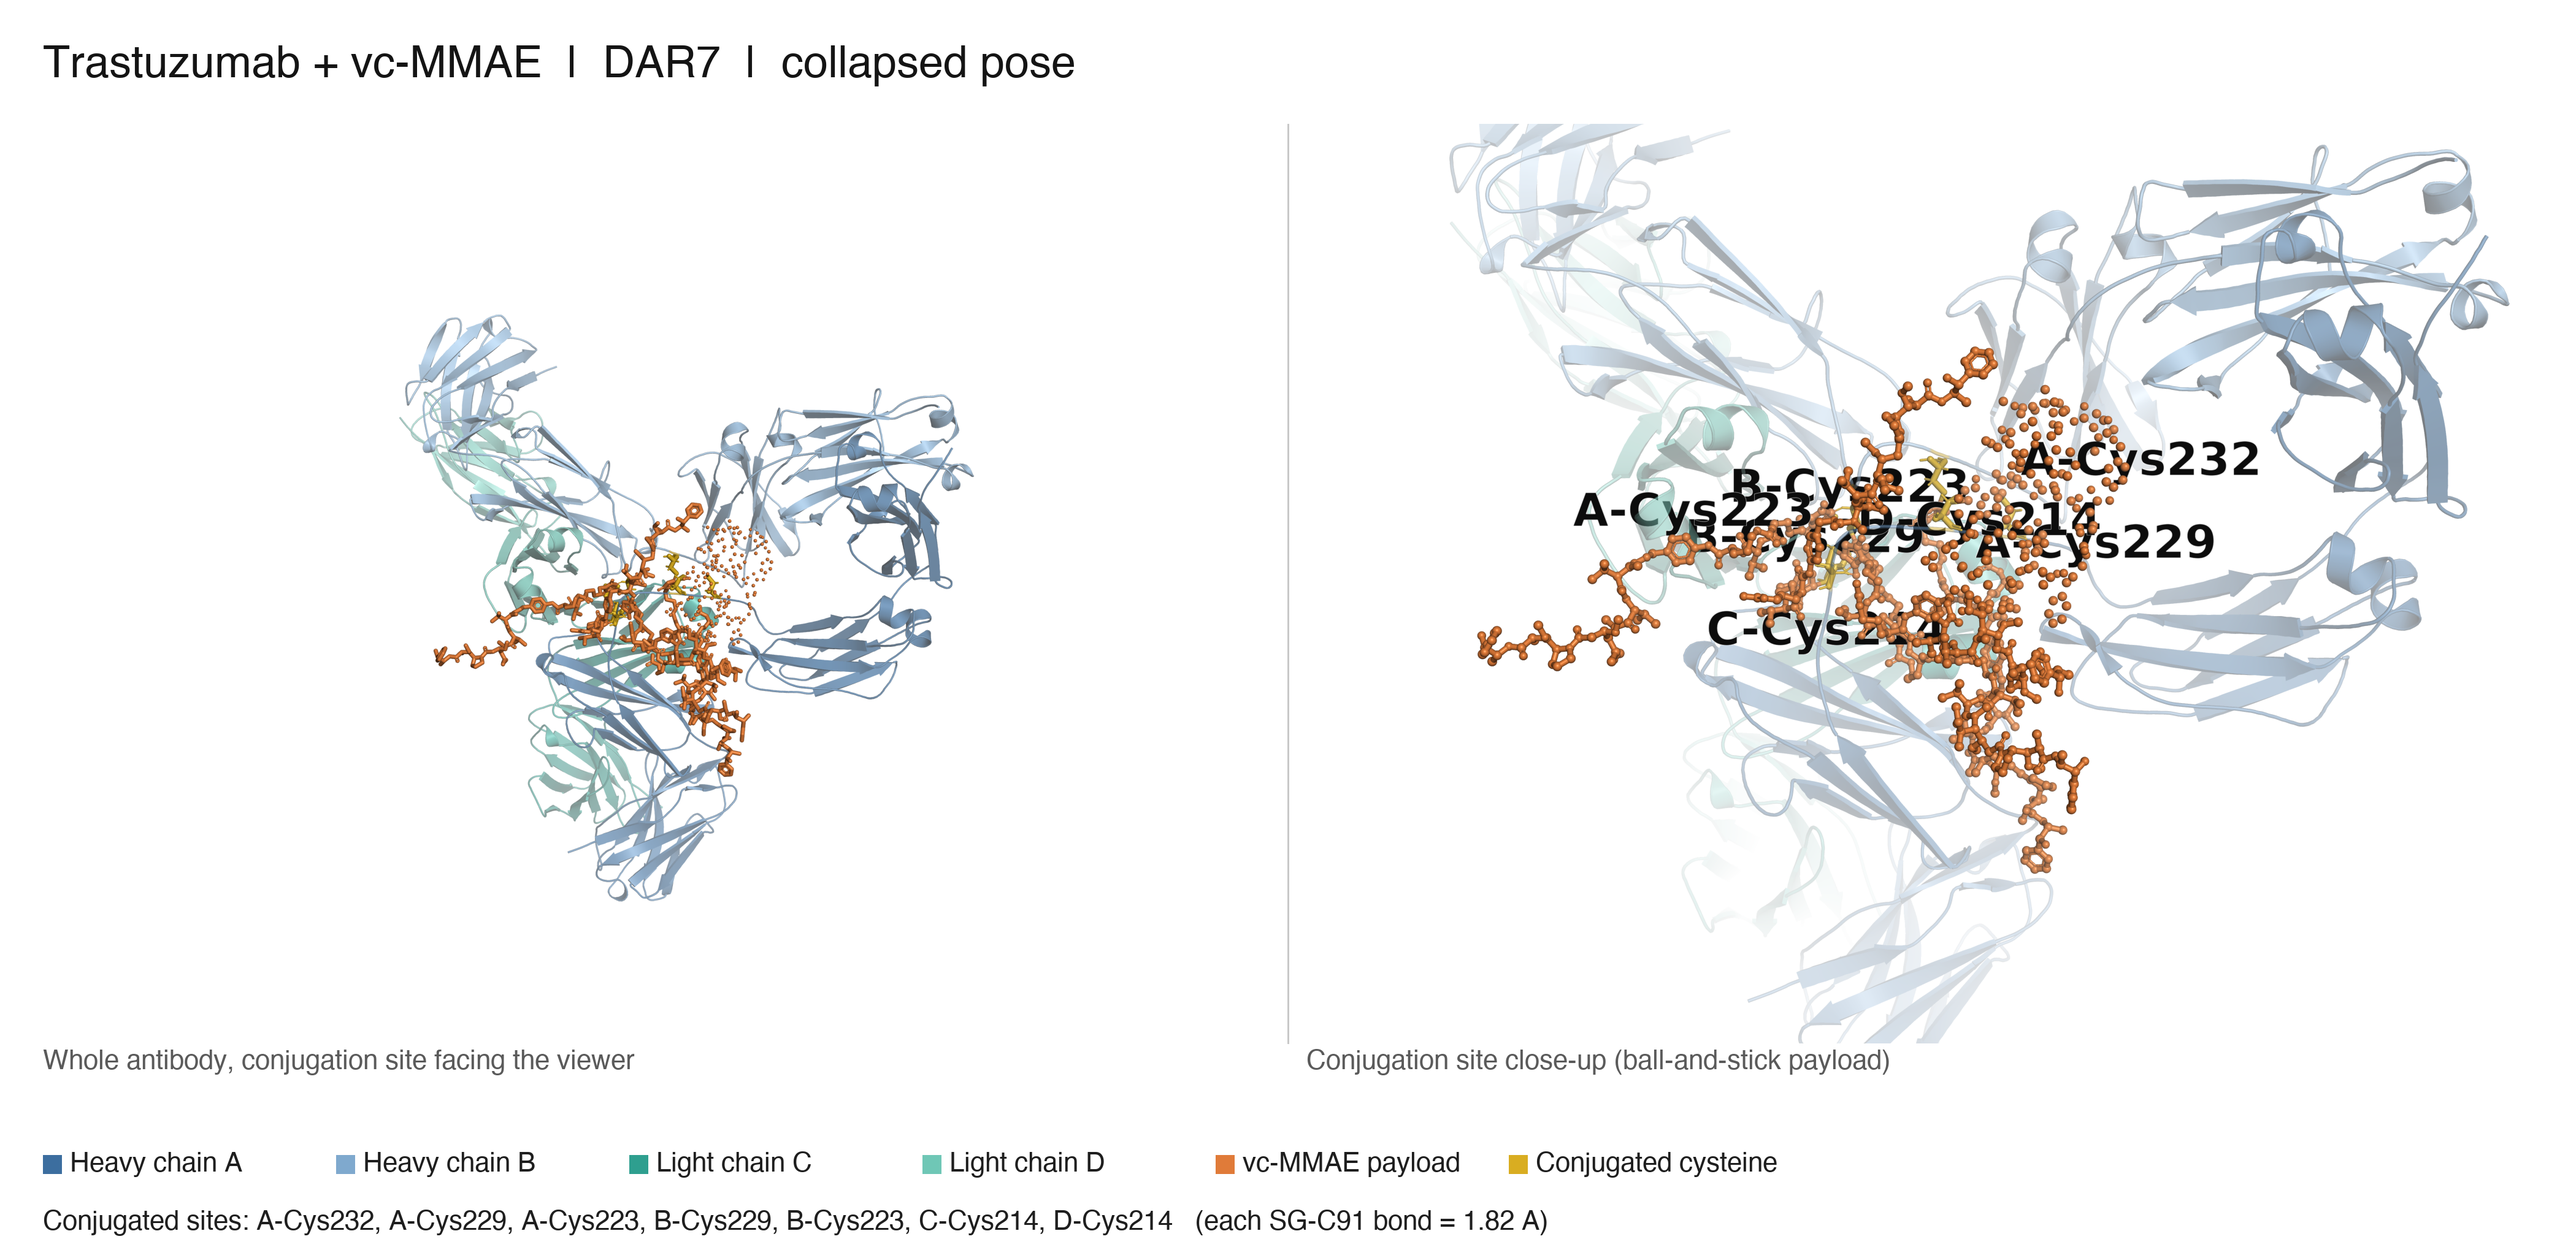
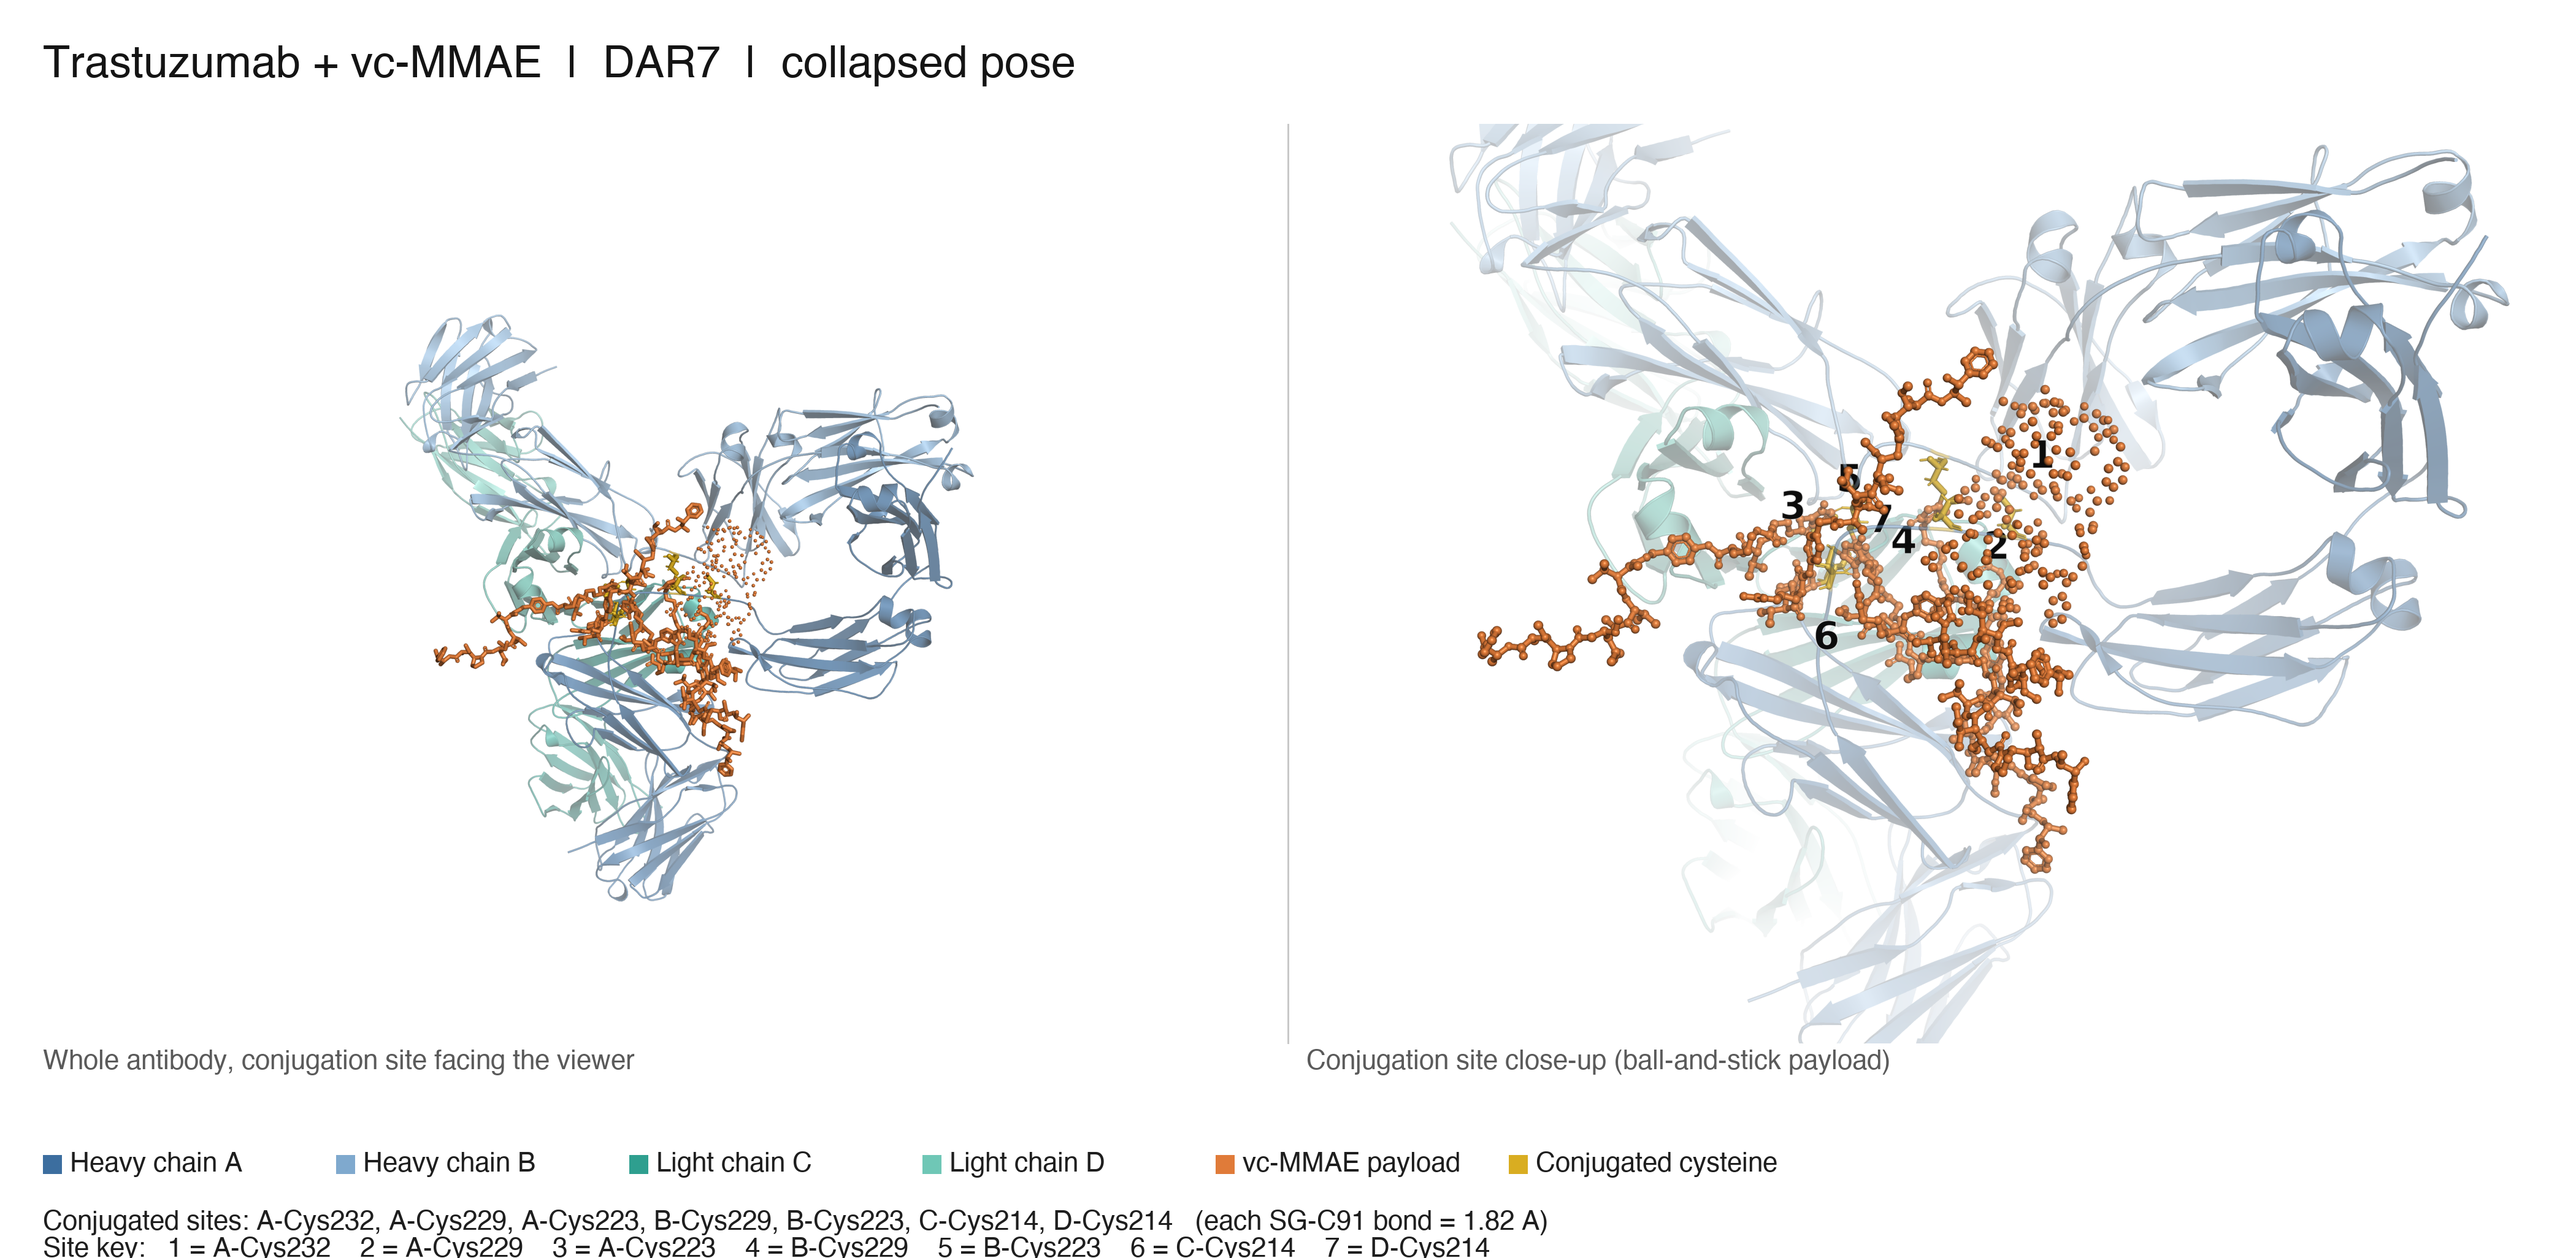
figs: numbered site tags + site key for DAR7 close-up (fix label overlap)

diff --git a/examples/trop_adc/render_readme_figures.py b/examples/trop_adc/render_readme_figures.py
@@ -145,17 +145,32 @@ def render(tag, pdb, sites):
     cmd.orient("focus")
     cmd.zoom("focus", buffer=15)
 
-    # spread labels around the cluster so 7 sites do not stack on one spot
-    offsets = [(4, 4, 4), (4, -4, -4), (-4, 4, 4), (-4, -4, -4),
-               (0, 5, -4), (0, -5, 4), (5, 0, 4), (-5, 0, -4)]
-    cmd.set("label_size", 24)
+    # 5+ sites: full "A-Cys232" labels overlap; fall back to numbered tags
+    # plus a site key drawn under the panels by annotate_figure.py.
+    numbered = len(sites) > 5
+    if numbered:
+        # wider spread for single digits so 7 tags never touch each other
+        offsets = [(7, 7, 7), (7, -7, -7), (-7, 7, 7), (-7, -7, -7),
+                   (0, 9, -7), (0, -9, 7), (9, 0, -7), (-9, 0, 7)]
+    else:
+        offsets = [(4, 4, 4), (4, -4, -4), (-4, 4, 4), (-4, -4, -4),
+                   (0, 5, -4), (0, -5, 4), (5, 0, 4), (-5, 0, -4)]
     cmd.set("label_color", "black")
     cmd.set("label_outline_color", "white")
     cmd.set("label_font_id", 7)
-    for (chain, resi), off in zip(sites, offsets):
+    if numbered:
+        cmd.set("label_size", 20)
+    else:
+        cmd.set("label_size", 24)
+    site_key = []
+    for idx, ((chain, resi), off) in enumerate(zip(sites, offsets)):
         obj = "site_%s%d" % (chain, resi)
         cmd.select(obj, "chain %s and resi %d and name SG" % (chain, resi))
-        cmd.label(obj, '"%s-Cys%d"' % (chain, resi))
+        if numbered:
+            cmd.label(obj, '"%d"' % (idx + 1))
+            site_key.append("%d = %s-Cys%d" % (idx + 1, chain, resi))
+        else:
+            cmd.label(obj, '"%s-Cys%d"' % (chain, resi))
         cmd.set("label_position", "(%g,%g,%g)" % off, obj)
 
     raw = os.path.join(OUTDIR, "_raw_%s_closeup.png" % tag)
@@ -170,7 +185,8 @@ def render(tag, pdb, sites):
          "--overview", stems[0],
          "--closeup", stems[1],
          "--sites", json.dumps(sites),
-         "--legend", json.dumps(LEGEND)],
+         "--legend", json.dumps(LEGEND),
+         "--site_key", json.dumps(site_key)],
         check=True)
     print("wrote", final)
     return True

diff --git a/examples/trop_adc/annotate_figure.py b/examples/trop_adc/annotate_figure.py
@@ -49,6 +49,9 @@ def main():
     ap.add_argument("--closeup", required=True)
     ap.add_argument("--sites", required=True)
     ap.add_argument("--legend", required=True)
+    ap.add_argument("--site_key", default="[]",
+                    help="JSON list of 'N = Chain-Cys###' entries; "
+                         "drawn under the panels when labels are numbered")
     args = ap.parse_args()
 
     ov = Image.open(args.overview).convert("RGB")
@@ -103,6 +106,13 @@ def main():
         x += entry_w
     draw.text((MARGIN, sites_y), sites_text,
               fill=(30, 30, 30), font=legend_font)
+
+    site_key = json.loads(args.site_key)
+    if site_key:
+        # extra row height must exist; canvas H assumed <= 2 extra lines
+        key_text = "Site key:   " + "    ".join(site_key)
+        draw.text((MARGIN, sites_y + LEGEND_SIZE), key_text,
+                  fill=(30, 30, 30), font=legend_font)
 
     canvas.save(args.output, dpi=(220, 220))
     print("canvas", canvas.size)
